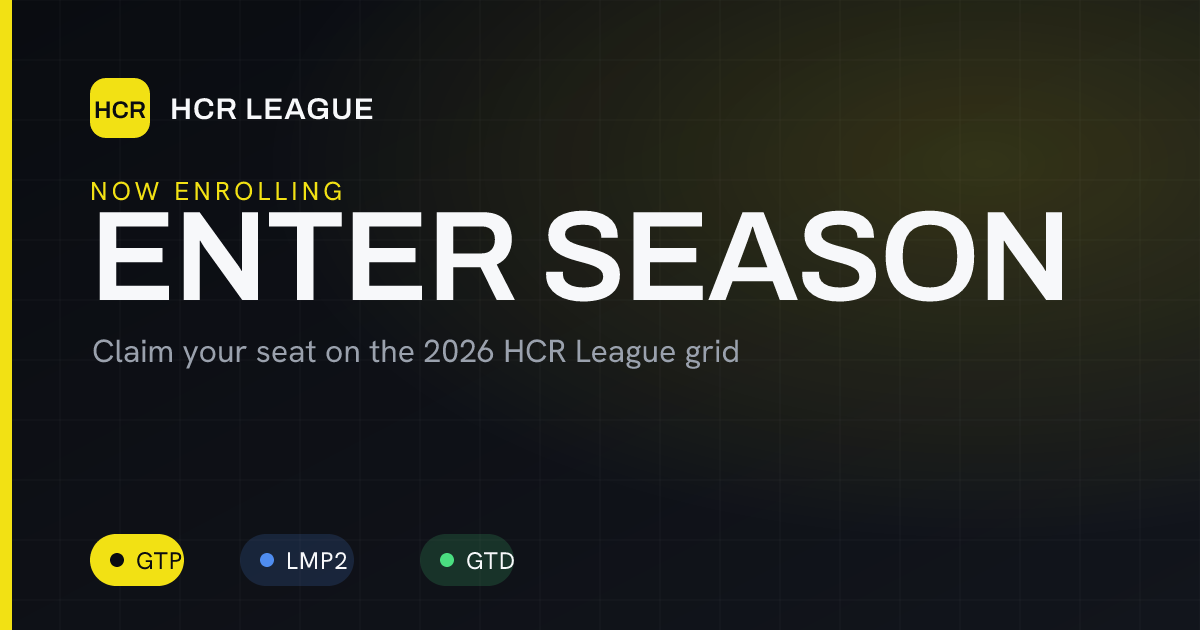
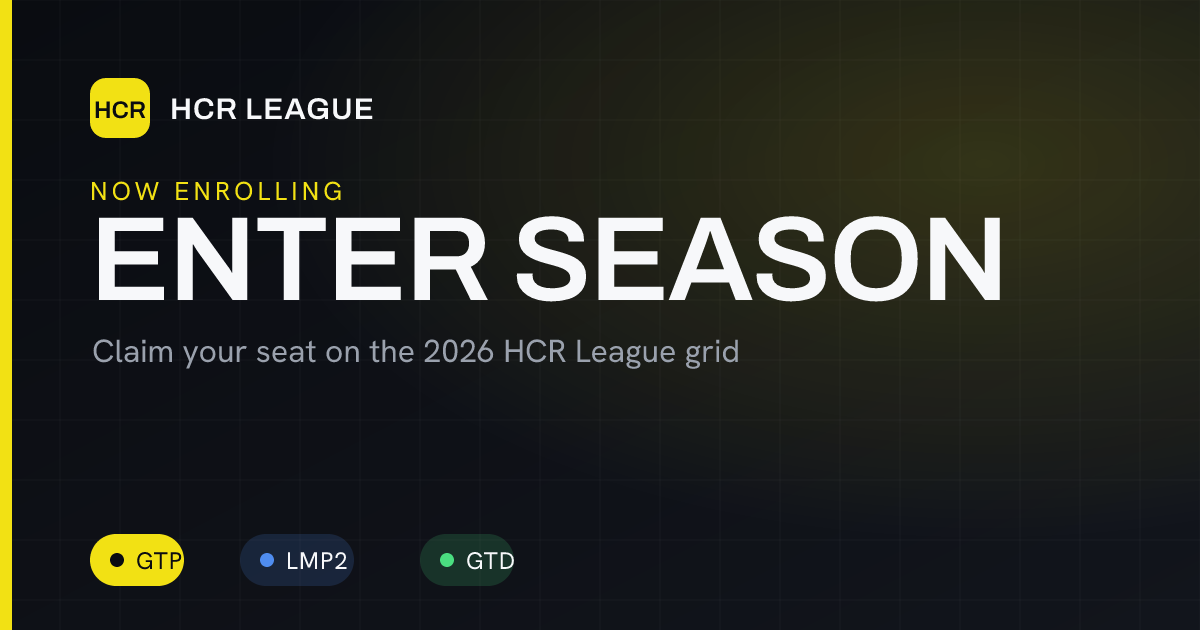
Social cards: per-race and per-driver OG images
gen-og.mjs now also pulls races + drivers from Supabase (best-effort, fails
soft) and renders a card each into public/og/ (gitignored, regenerated on every
deploy via the build script). Titles auto-shrink to fit. The edge function
points /schedule/:id and /drivers/:id at their own card with a same-origin HEAD
existence check that falls back to the section card, and sets a per-entity
title/description. So a shared race or driver link now unfurls with its own
branded card in Discord/iMessage/Twitter.

Changed region(s): [[0.0617, 0.3317, 0.8942, 0.4825]]

diff --git a/netlify/edge-functions/og-meta.ts b/netlify/edge-functions/og-meta.ts
@@ -26,25 +26,38 @@ const SECTIONS: Record<string, Meta> = {
 const esc = (s: string) =>
   s.replace(/&/g, '&amp;').replace(/"/g, '&quot;').replace(/</g, '&lt;').replace(/>/g, '&gt;')
 
-async function raceName(id: string): Promise<string | null> {
+async function sbOne(pathAndQuery: string): Promise<Record<string, unknown> | null> {
   const base = Netlify.env.get('VITE_SUPABASE_URL') || Netlify.env.get('SUPABASE_URL')
   const key = Netlify.env.get('VITE_SUPABASE_ANON_KEY') || Netlify.env.get('SUPABASE_ANON_KEY')
   if (!base || !key) return null
   try {
     const ctrl = new AbortController()
     const t = setTimeout(() => ctrl.abort(), 1500)
-    const res = await fetch(
-      `${base}/rest/v1/events?id=eq.${encodeURIComponent(id)}&select=name,track:tracks(name)`,
-      { headers: { apikey: key, authorization: `Bearer ${key}` }, signal: ctrl.signal },
-    )
+    const res = await fetch(`${base}/rest/v1/${pathAndQuery}`, {
+      headers: { apikey: key, authorization: `Bearer ${key}` },
+      signal: ctrl.signal,
+    })
     clearTimeout(t)
     if (!res.ok) return null
     const rows = await res.json()
-    const row = Array.isArray(rows) ? rows[0] : null
-    return row?.name || row?.track?.name || null
+    return Array.isArray(rows) ? (rows[0] ?? null) : null
   } catch {
     return null
   }
+}
+
+/** Use the per-entity card if it was generated at build time, else fall back. */
+async function pickImage(origin: string, candidate: string, fallback: string): Promise<string> {
+  try {
+    const ctrl = new AbortController()
+    const t = setTimeout(() => ctrl.abort(), 1000)
+    const res = await fetch(`${origin}${candidate}`, { method: 'HEAD', signal: ctrl.signal })
+    clearTimeout(t)
+    if (res.ok) return `${origin}${candidate}`
+  } catch {
+    // ignore — fall through to fallback
+  }
+  return `${origin}/${fallback}.png`
 }
 
 export default async function handler(request: Request, context: Context) {
@@ -58,14 +71,25 @@ export default async function handler(request: Request, context: Context) {
   const section = parts[0] ?? ''
 
   let meta: Meta = SECTIONS[section] ?? SECTIONS['']
+  let imageUrl = `${origin}/${meta.image}.png`
 
-  // Race detail: /schedule/:id -> use the event name, keep the schedule card.
+  // Race detail: /schedule/:id -> event name + its own card.
   if (section === 'schedule' && parts[1]) {
-    const name = await raceName(parts[1])
+    const row = await sbOne(`events?id=eq.${encodeURIComponent(parts[1])}&select=name,track:tracks(name)`)
+    const name = (row?.name as string) || ((row?.track as { name?: string })?.name ?? null)
     if (name) meta = { ...meta, title: `${name} — ${SITE}`, description: `Session times, weather, grid and results for ${name}.` }
+    imageUrl = await pickImage(origin, `/og/race-${parts[1]}.png`, meta.image)
+  } else if (section === 'drivers' && parts[1]) {
+    const row = await sbOne(`drivers?id=eq.${encodeURIComponent(parts[1])}&select=name,team:teams(name,class_id)`)
+    const name = row?.name as string | undefined
+    const team = row?.team as { name?: string; class_id?: string } | undefined
+    if (name) {
+      const sub = [team?.class_id, team?.name].filter(Boolean).join(' · ')
+      meta = { ...meta, title: `${name} — ${SITE}`, description: sub ? `${sub} · HCR League driver profile, stats and license.` : `HCR League driver profile, stats and license.` }
+    }
+    imageUrl = await pickImage(origin, `/og/driver-${parts[1]}.png`, meta.image)
   }
 
-  const imageUrl = `${origin}/${meta.image}.png`
   const pageUrl = `${origin}${url.pathname}`
   const T = esc(meta.title)
   const D = esc(meta.description)
